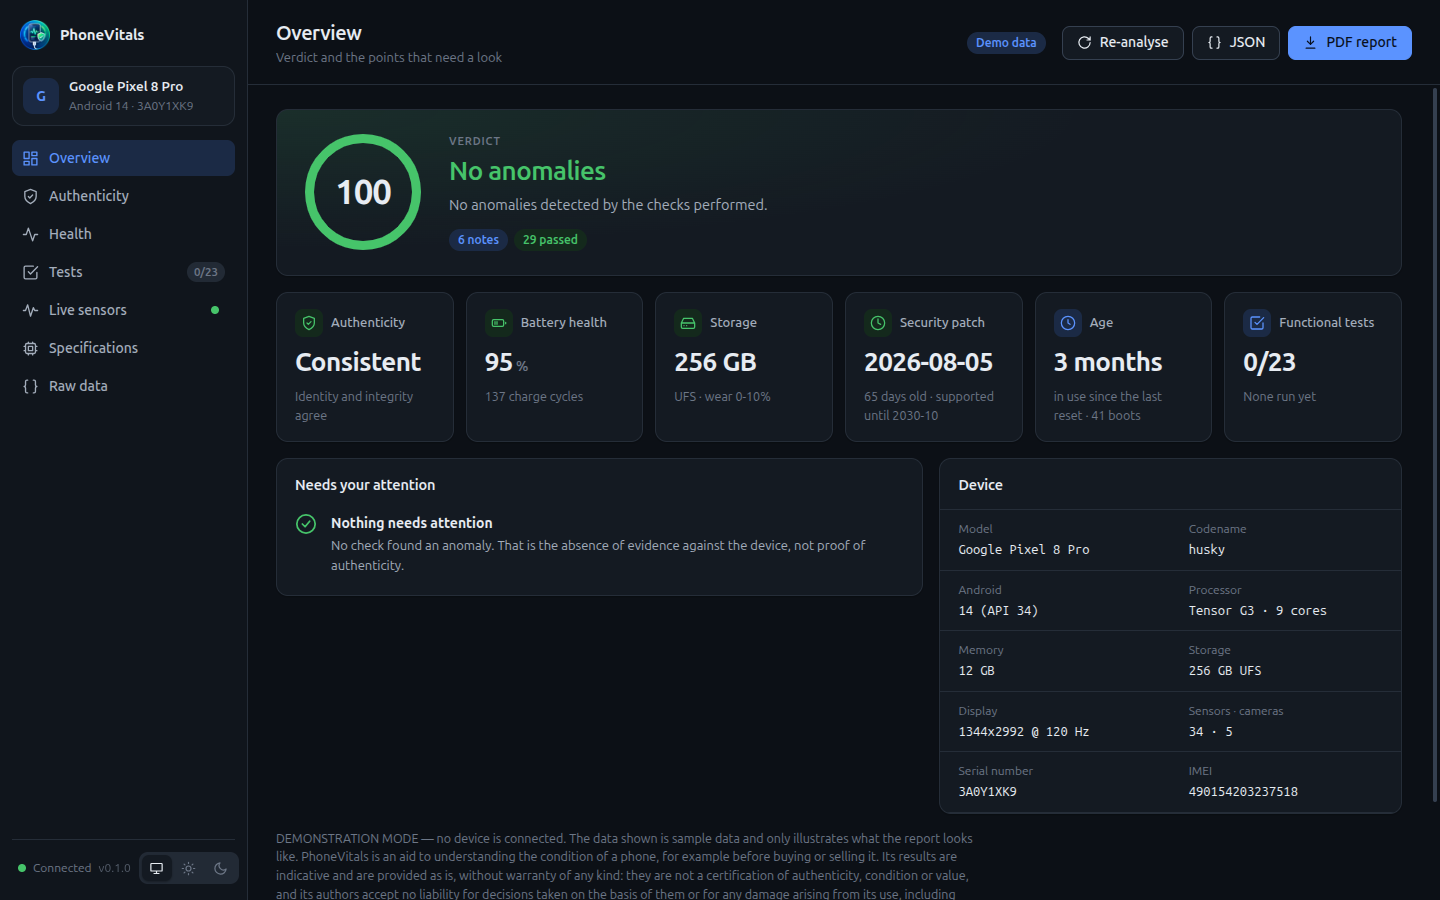
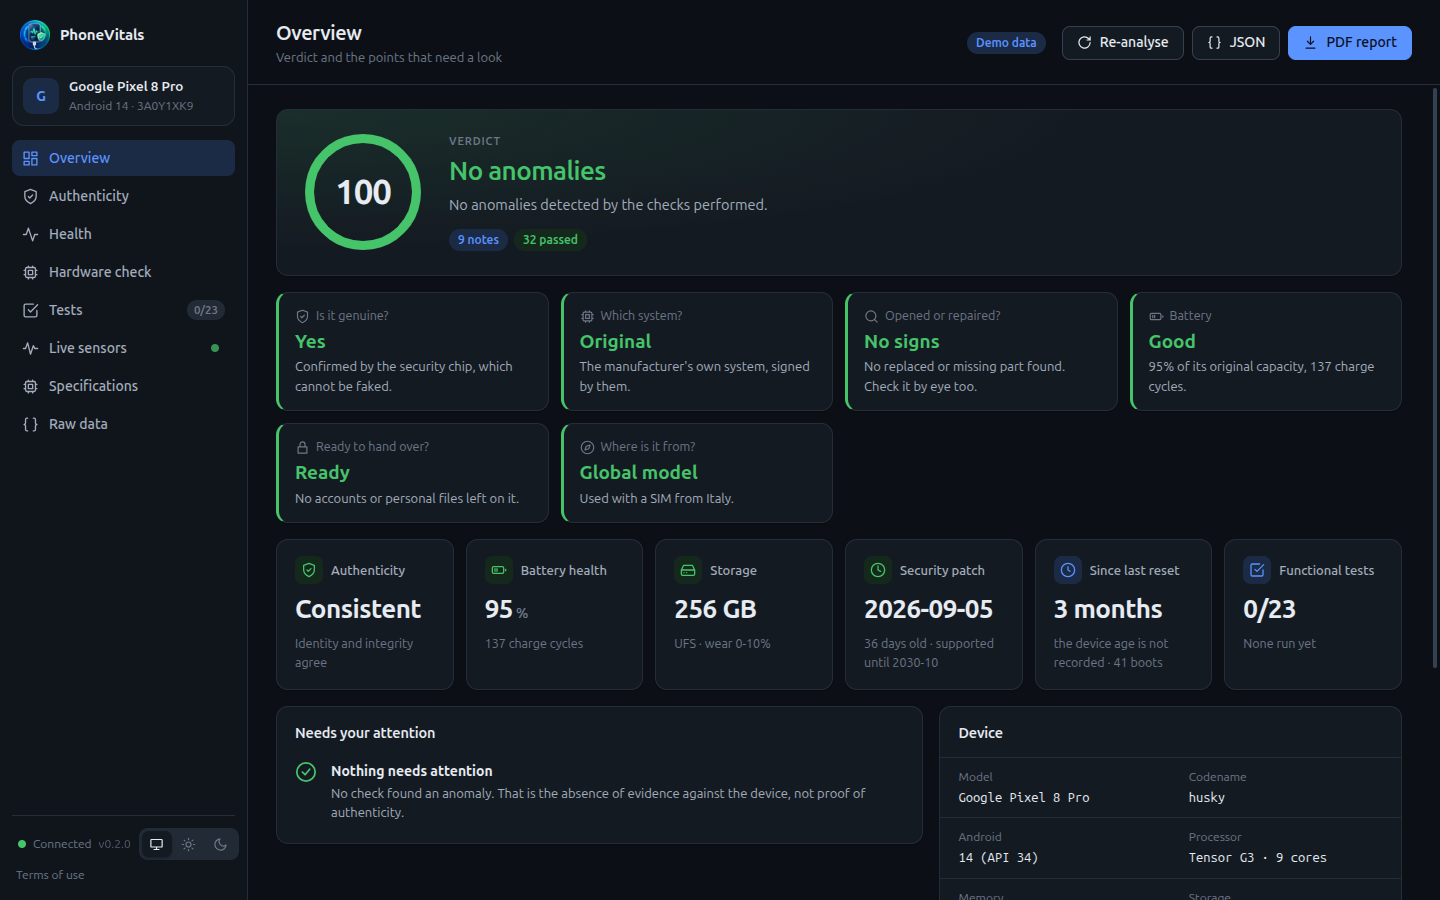
Release 0.2.0
Bump the version, move the unreleased notes under 0.2.0, describe the
hardware check, event history, plain-language overview and terms of use
in the README, and regenerate the store screenshots.

diff --git a/README.md b/README.md
@@ -18,8 +18,10 @@ From a source checkout: `./run.sh` (see [Development](#development)).
 > kind. They are not a certification of authenticity, condition or value. The
 > authors accept no liability for decisions taken on the basis of its results,
 > or for any damage arising from its use, including from the functional tests
-> (some heat the phone, make it vibrate or briefly change a setting). Every
-> report, the PDF included, carries the same notice.
+> (some heat the phone, make it vibrate or briefly change a setting). Using
+> PhoneVitals means accepting its [terms of use](TERMS.md), which the
+> application also shows from the sidebar; every report, the PDF included,
+> refers to them.
 
 ![Overview: verdict, the points that need a look, battery, storage and patch level](docs/screenshots/1-overview.png)
 
@@ -38,7 +40,7 @@ simulated.
 The report separates its conclusions into three levels of evidential strength,
 and this is the most important thing to understand in order to use it well.
 
-**Proven.** Derived from arithmetic, or from a comparison between values that
+**Certain.** Derived from arithmetic, or from a comparison between values that
 must agree by construction. Depends on no database and is not a matter of
 opinion.
 
@@ -82,8 +84,51 @@ discrepancy is a suspicion to verify, not a verdict.
   phone are counted, never opened.
 - End of the manufacturer's security-update guarantee, for catalogued models.
 
-**Circumstantial.** Usage statistics and absences. Directs a manual check;
+**Indication.** Usage statistics and absences. Directs a manual check;
 never sufficient on its own.
+
+The overview opens with the same conclusions in plain words, *In short*: is it
+genuine, which system it runs, whether it has been opened, how the battery is,
+whether it is ready to change hands and where it comes from. Each answer links
+to the page with the evidence.
+
+A phone that the secure environment, verified up to Google's roots, vouches
+for, and whose only serious findings come from an unlocked bootloader, a
+custom OS or root, is reported as **modified**: an original phone running
+software its owner chose, not a counterfeit. GrapheneOS, CalyxOS, LineageOS,
+/e/OS, iodéOS and other custom ROMs are named.
+
+### Hardware check
+
+One page for every component, sensors and actuators included: what it reports
+about itself, whether the phone calls it original or replaced, the clues
+found and the tests that exercise it.
+
+- Screen and battery replacement as the phone itself reports it (Android 15
+  and later); on Pixel phones, whether the battery is paired with this
+  phone or came from another one.
+- The battery gauge compared with the capacity Android learns while charging:
+  a large gap points to an aftermarket battery or a reset gauge.
+- Parts the firmware declares but the hardware does not report: missing,
+  disconnected or dead. Liquid or debris in the USB-C port, where the port
+  controller detects it. The fingerprint reader's rejection rate, high on an
+  uncalibrated under-display reader after a screen replacement.
+- Component codes to match against spare parts: storage chip and its
+  production date, touch controller, panel driver, GPU, camera sensors,
+  sensor chips.
+- Origin: the market the phone was built for (hardware model number, Samsung
+  sales code, Asus SKU) against the country of its SIM, and the age of the
+  mainboard (serial number, factory radio calibration, storage chip), never
+  of the battery, which may have been replaced.
+- A physical inspection checklist, saved into the report.
+
+### Event history
+
+Restarts classified (updates, flat battery, overheating, kernel panics,
+recovery and bootloader modes), recovery and file-system repair records, and
+the traces of earlier use: SIMs and eSIMs, saved Wi-Fi networks, paired
+devices, account changes, other users, guest, work profile and private space.
+They are counted on the phone; names, numbers and addresses never leave it.
 
 ### Functional tests
 
@@ -97,8 +142,19 @@ sensors. A test that cannot decide (no SIM, no satellites indoors, battery
 full) says *inconclusive*, never *failed*.
 
 Guided, where a person has to look or act: a picture from every camera,
-touch coverage and multitouch, screen colours, buttons, proximity, light,
+touch coverage and multitouch, stylus pressure and hover, screen colours and
+burn-in patterns opened in the phone's gallery, buttons, proximity, light,
 compass, flash and vibration strengths.
+
+*Battery capacity* follows the charge for a few percent and integrates the
+current, an estimate of the real capacity for phones that do not report their
+health. It takes 10 to 30 minutes on the charger, with the battery below 90%,
+so "Run automatic tests" leaves it out.
+
+Tests are offered only for what the device has: a Wi-Fi-only tablet gets no
+mobile network test, a phone without a flash no flash test. Where an old
+Android shell lacks a command (Android 7 has no `cmd vibrator`, `cmd wifi` or
+`awk`), the tests fall back to the agent or the system's last results.
 
 ### Reports
 
@@ -132,7 +188,8 @@ everything; `scripts/analyse_cli.py --no-memory` leaves it untouched.
 A phone known to be genuine can be saved as the **reference unit** for its
 model (Authenticity page). Later units of the same model are compared with it
 trait by trait: processor, core layout and frequencies, resolution, camera
-sensors, sensor chips. Differences in what genuine units share are reported
+sensors, sensor chips, display panel and its driver, touch controller,
+fingerprint sensor. Differences in what genuine units share are reported
 as warnings; in parts sourced from several suppliers, as notes.
 
 ### What it does not do
@@ -187,9 +244,10 @@ scripts/                setup, build, utilities
 
 The backend is Python (FastAPI), the interface is a Svelte page served on
 `127.0.0.1` and loaded inside an Electron window. It opens on an overview —
-verdict, the findings that need a look, battery, storage, patch level and test
-progress — with the details one click away in the sidebar: authenticity,
-health, functional tests, live sensors, specifications and raw data. It
+verdict, the answers in plain words, the findings that need a look, battery,
+storage, patch level and test progress — with the details one click away in
+the sidebar: authenticity, health, hardware check, functional tests, live
+sensors, specifications and raw data. It
 follows the desktop's light or dark theme, or the one picked in the sidebar. The backend binds a free
 port chosen at startup and announces it on stdout, so it never collides with
 another program or another instance.
@@ -416,9 +474,10 @@ snapcraft export-login --snaps=phonevitals \
   --acls package_access,package_push,package_update,package_release -
 ```
 
-Connecting the repository on snapcraft.io (Builds tab) adds builds of every
-push to `main`, released to `edge`. The two coexist: `edge` follows the
-branch, `candidate` and `stable` follow the releases.
+Only releases reach the Snap Store: do not connect the repository on
+snapcraft.io (Builds tab), which would publish every push to `main` to
+`edge`. CI still builds and reviews the snap on every push, without
+uploading it.
 
 Store listing screenshots are in `docs/screenshots`; regenerate them after
 interface changes with `./scripts/store_screenshots.sh` (demo data only).

diff --git a/CHANGELOG.md b/CHANGELOG.md
@@ -7,6 +7,11 @@ report format may still change between minor versions.
 
 ## [Unreleased]
 
+## [0.2.0] - 2026-10-11
+
+Hardware check, origin and event history; tablets, custom OSes and Android 7
+supported; terms of use.
+
 ### Added
 - Tablets are recognised as such: sensors expected of a tablet, wording in
   findings and test instructions, device type in the overview and the PDF.
